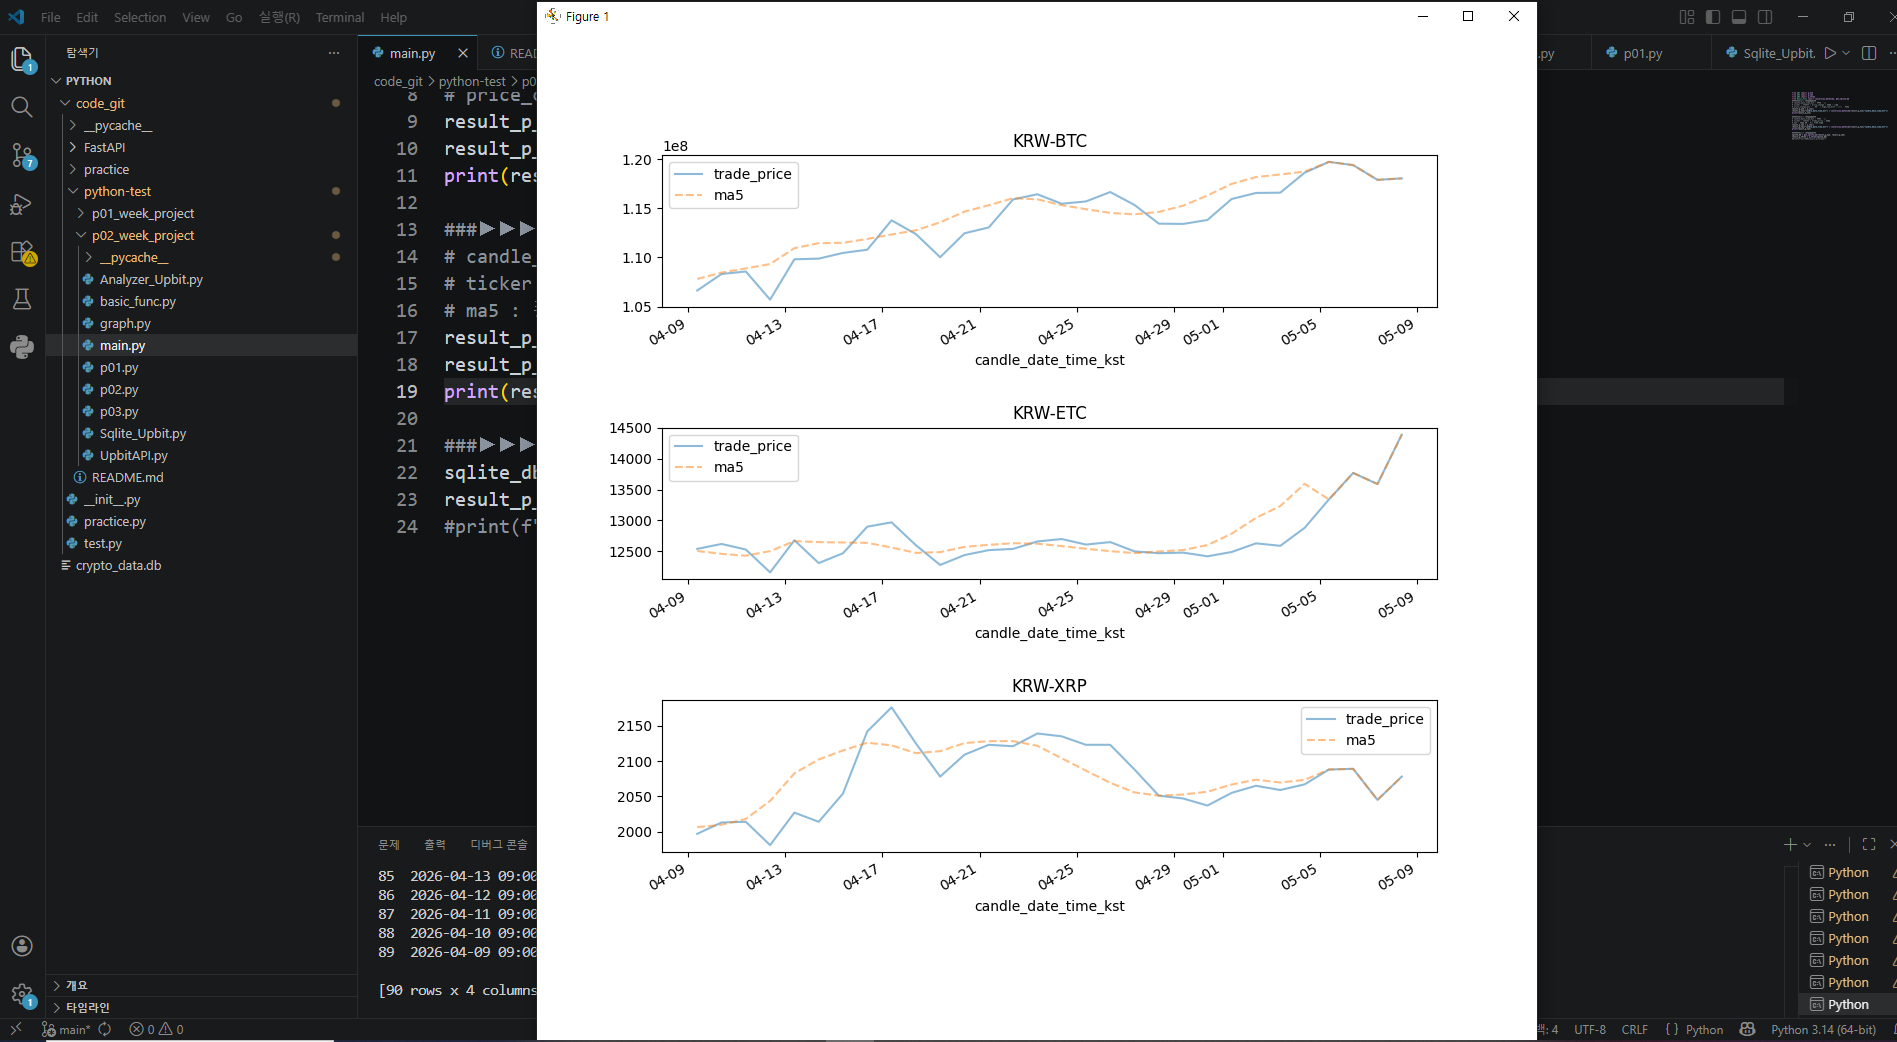
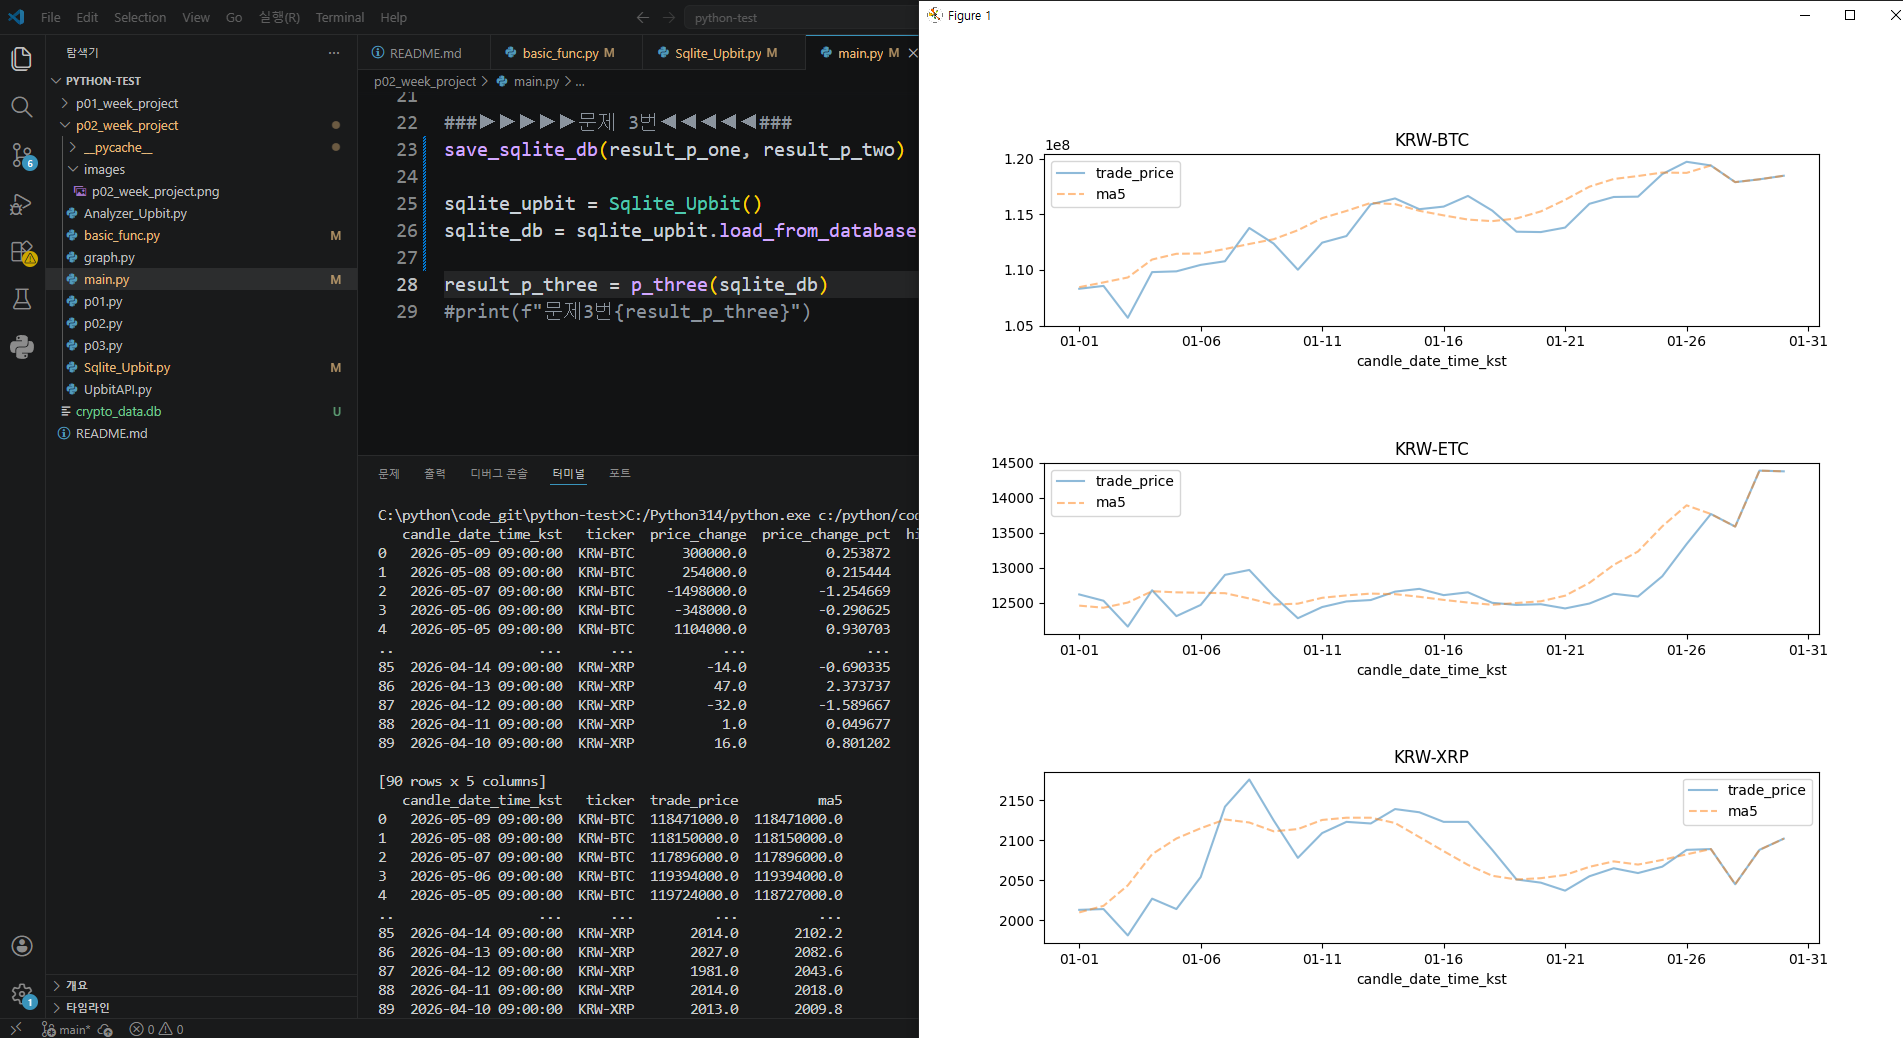
feat: db에 저장하고 불러오는 방식으로 변환

diff --git a/p02_week_project/basic_func.py b/p02_week_project/basic_func.py
@@ -35,19 +35,13 @@ def formatting_time(chart_result):
         )
     
     
-def get_sqlite_db(result_p_one, result_p_two):
+def save_sqlite_db(result_p_one, result_p_two):
     ### DataFrame 데이터 합치기 ###
     result_all_data = pd.merge(result_p_one, result_p_two, on= ["ticker", "candle_date_time_kst"])
     #print(result_all_data)
 
     # ### SQLite DB ###
 
-    # # dataframe 모두 db에 저장하기
-    # sqlite_upbit = Sqlite_Upbit(result_all_data)
-    # sqlite_upbit.save_to_database()
-
-    # # db에 저장된 dataframe확인하기
-    # saved_data = sqlite_upbit.load_from_database()
-    # #print(f"저장된 데이터 \n{saved_data}")
-        
-    return result_all_data
+    # dataframe 모두 db에 저장하기
+    sqlite_upbit = Sqlite_Upbit(result_all_data)
+    sqlite_upbit.save_to_database()

diff --git a/p02_week_project/main.py b/p02_week_project/main.py
@@ -1,7 +1,8 @@
 from p01 import p_one
 from p02 import p_two
 from p03 import p_three
-from basic_func import conversion_datetime, get_sqlite_db
+from basic_func import conversion_datetime, save_sqlite_db
+from Sqlite_Upbit import Sqlite_Upbit
 ###▶▶▶▶▶문제 1번◀◀◀◀◀###
 # candle_date_time_kst : 거래 날짜
 # ticker : 코인명 / price_change : 종가 - 시가
@@ -19,6 +20,10 @@ result_p_two["candle_date_time_kst"] = conversion_datetime(result_p_two["candle_
 print(result_p_two)
 
 ###▶▶▶▶▶문제 3번◀◀◀◀◀###
-sqlite_db = get_sqlite_db(result_p_one, result_p_two)
+save_sqlite_db(result_p_one, result_p_two)
+
+sqlite_upbit = Sqlite_Upbit()
+sqlite_db = sqlite_upbit.load_from_database()
+
 result_p_three = p_three(sqlite_db)
 #print(f"문제3번{result_p_three}")

diff --git a/p02_week_project/Sqlite_Upbit.py b/p02_week_project/Sqlite_Upbit.py
@@ -2,7 +2,7 @@ import sqlite3
 import pandas as pd
 
 class Sqlite_Upbit:
-    def __init__(self, dataframe):
+    def __init__(self, dataframe = None):   # dataframe 초기값을 None으로 지정해줘서 매개변수없어도 호출가능
         self.dataframe = dataframe
     def create_database(self):
         